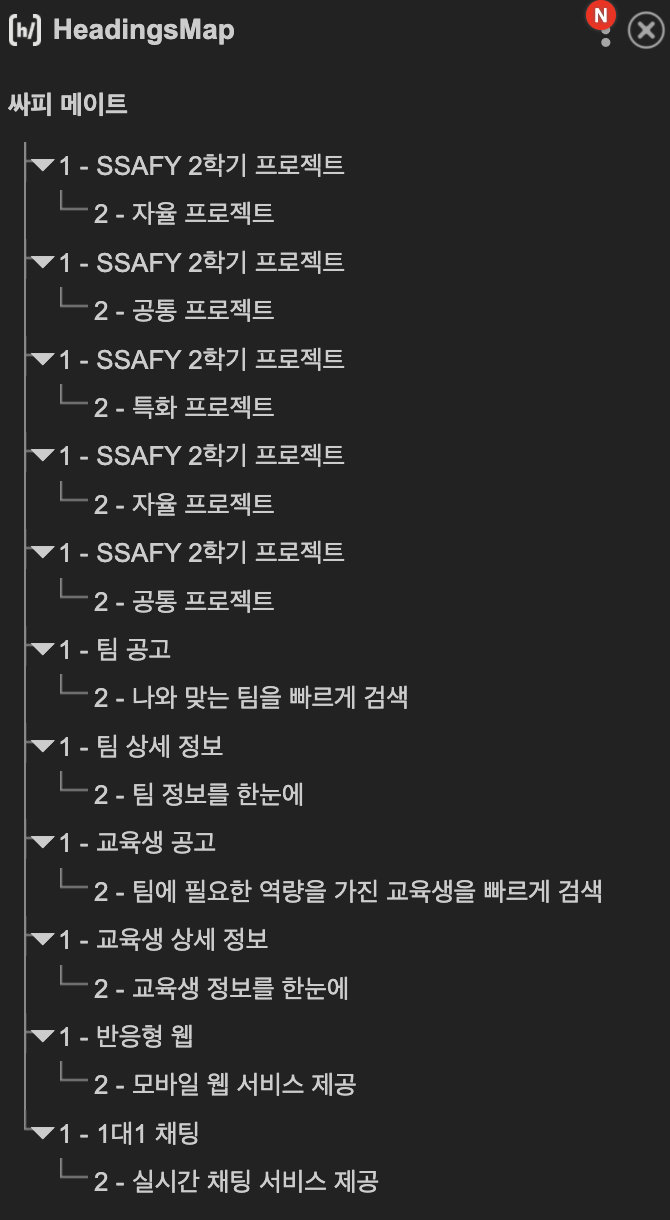
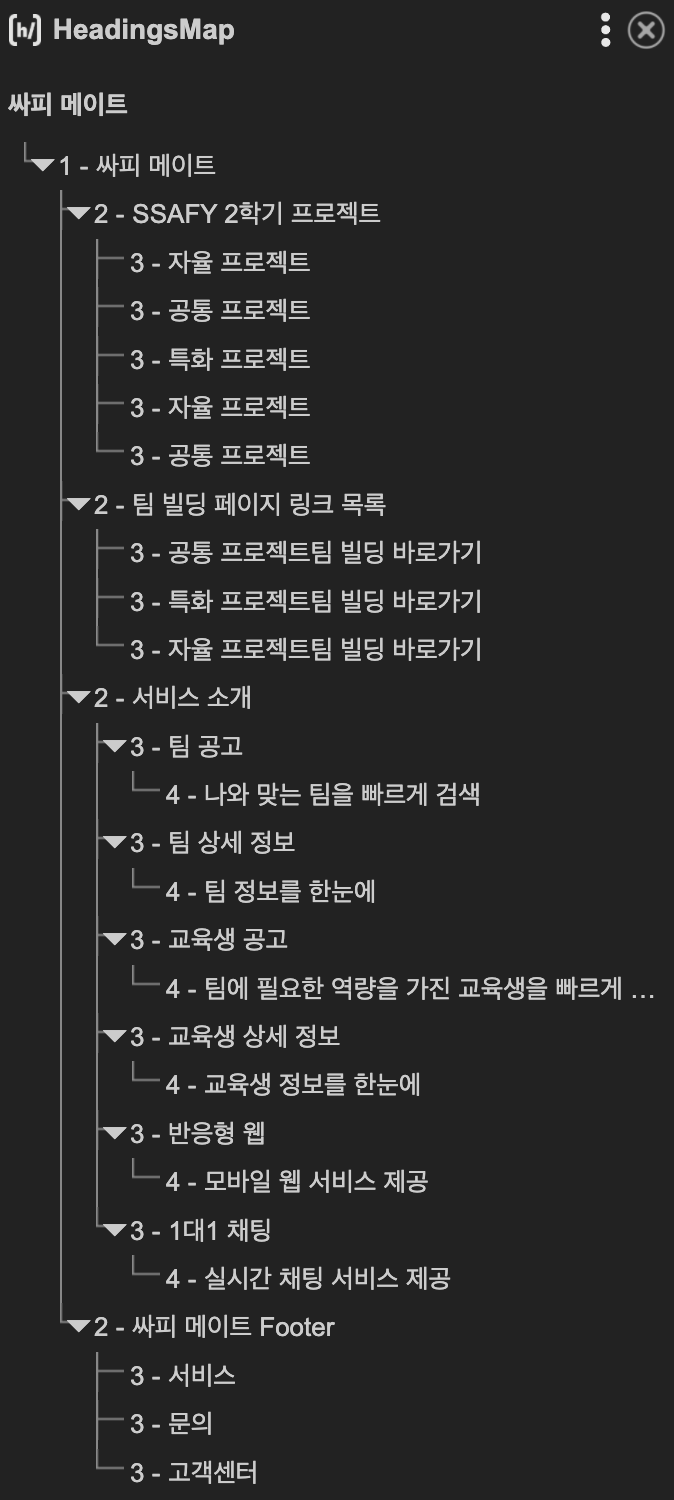
Refactor : 페이지 헤딩 처리 개편

diff --git a/src/components/projects/UserRecruitmentSection.tsx b/src/components/projects/UserRecruitmentSection.tsx
@@ -6,10 +6,11 @@ import Switch from '@mui/material/Switch';
 
 import { UserListResponse } from '../../types/userTypes';
 
+import SkeletonUserRecruitmentSection from './skeletonUI/SkeletonUserRecruitmentSection';
+import VisuallyHiddenHead from '../common/VisuallyHiddenHead';
 import UserItem from '../projects/UserItem';
 import EmptyBox from './EmptyBox';
 import ErrorSection from '../common/ErrorSection';
-import SkeletonUserRecruitmentSection from './skeletonUI/SkeletonUserRecruitmentSection';
 
 interface UserRecruitmentSectionProps {
   isLoading: boolean;
@@ -52,6 +53,7 @@ const UserRecruitmentSection: React.FC<UserRecruitmentSectionProps> = ({
         <SkeletonUserRecruitmentSection />
       ) : (
         <Container>
+          <VisuallyHiddenHead level={2} text="교육생 목록" />
           <RecruitmentHeader>
             <HeaderLeft>
               <TotalCount>검색된 교육생 총 {data.totalElement}명</TotalCount>
@@ -114,7 +116,7 @@ const HeaderLeft = styled.div``;
 
 const HeaderRight = styled.div``;
 
-const TotalCount = styled.h1`
+const TotalCount = styled.p`
   margin: auto 0;
   font-size: 14px;
   font-weight: 600;

diff --git a/src/components/projects/TeamRecruitmentSection.tsx b/src/components/projects/TeamRecruitmentSection.tsx
@@ -8,9 +8,10 @@ import Switch from '@mui/material/Switch';
 
 import { TeamListResponse } from '../../types/teamTypes';
 
+import SkeletonTeamRecruitmentSection from './skeletonUI/SkeletonTeamRecruitmentSection';
+import VisuallyHiddenHead from '../common/VisuallyHiddenHead';
 import TeamItem from './TeamItem';
 import EmptyBox from './EmptyBox';
-import SkeletonTeamRecruitmentSection from './skeletonUI/SkeletonTeamRecruitmentSection';
 import ErrorSection from '../common/ErrorSection';
 
 interface TeamRecruitmentSectionProps {
@@ -60,6 +61,7 @@ const TeamRecruitmentSection: React.FC<TeamRecruitmentSectionProps> = ({
         <SkeletonTeamRecruitmentSection />
       ) : (
         <Container>
+          <VisuallyHiddenHead level={2} text="팀 목록" />
           <RecruitmentHeader>
             <HeaderLeft>
               <TotalCount>검색된 팀 총 {data.totalElement}팀</TotalCount>
@@ -127,7 +129,7 @@ const HeaderLeft = styled.div``;
 
 const HeaderRight = styled.div``;
 
-const TotalCount = styled.h1`
+const TotalCount = styled.p`
   margin: auto 0;
   font-size: 14px;
   font-weight: 600;

diff --git a/src/pages/projects/SpecializationProjectUserListPage.tsx b/src/pages/projects/SpecializationProjectUserListPage.tsx
@@ -14,6 +14,7 @@ import useDocumentTitle from '../../hooks/useDocumentTitle';
 
 import Header from '../../components/common/Header';
 import ProjectNavigation from '../../components/projects/ProjectNavigation';
+import VisuallyHiddenHead from '../../components/common/VisuallyHiddenHead';
 import ProjectBannerSection from '../../components/projects/ProjectBannerSection';
 import UserListSearchForm from '../../components/projects/UserListSearchForm';
 import UserRecruitmentSection from '../../components/projects/UserRecruitmentSection';
@@ -72,6 +73,7 @@ const SpecializationProjectUserListPage: React.FC = () => {
     <>
       <Header />
       <ProjectNavigation />
+      <VisuallyHiddenHead level={1} text="특화 프로젝트 교육생 공고" />
       <ProjectBannerSection />
       <UserListSearchForm
         campus={campus}

diff --git a/src/pages/projects/SpecializationProjectTeamListPage.tsx b/src/pages/projects/SpecializationProjectTeamListPage.tsx
@@ -14,6 +14,7 @@ import useDocumentTitle from '../../hooks/useDocumentTitle';
 
 import Header from '../../components/common/Header';
 import ProjectNavigation from '../../components/projects/ProjectNavigation';
+import VisuallyHiddenHead from '../../components/common/VisuallyHiddenHead';
 import ProjectBannerSection from '../../components/projects/ProjectBannerSection';
 import TeamListSearchForm from '../../components/projects/TeamListSearchForm';
 import TeamRecruitmentSection from '../../components/projects/TeamRecruitmentSection';
@@ -70,6 +71,7 @@ const SpecializationProjectTeamListPage: React.FC = () => {
     <>
       <Header />
       <ProjectNavigation />
+      <VisuallyHiddenHead level={1} text="특화 프로젝트 팀 공고" />
       <ProjectBannerSection />
       <TeamListSearchForm
         campus={campus}

diff --git a/src/components/common/Footer.tsx b/src/components/common/Footer.tsx
@@ -9,8 +9,6 @@ import YouTubeIcon from '@mui/icons-material/YouTube';
 import FacebookIcon from '@mui/icons-material/Facebook';
 import InstagramIcon from '@mui/icons-material/Instagram';
 
-import VisuallyHiddenHead from './VisuallyHiddenHead';
-
 interface FooterProps {
   offMarginTop?: boolean;
 }
@@ -20,7 +18,6 @@ interface ContainerProps extends FooterProps {}
 const Footer: React.FC<FooterProps> = ({ offMarginTop }) => {
   return (
     <Container offMarginTop={offMarginTop}>
-      <VisuallyHiddenHead level={2} text="싸피 메이트 Footer" />
       <Wrapper>
         <MenuSection>
           <MenuGroup>
@@ -192,7 +189,7 @@ const MenuList = styled.ul`
   }
 `;
 
-const MenuListHead = styled.h3`
+const MenuListHead = styled.p`
   margin-bottom: 16px;
   font-size: 14px;
   font-weight: 600;

diff --git a/src/components/projects/ProjectBannerSection.tsx b/src/components/projects/ProjectBannerSection.tsx
@@ -14,6 +14,7 @@ import 'swiper/css/pagination';
 
 import { ProjectBannerSlideType } from '../../types/commonTypes';
 
+import VisuallyHiddenHead from '../common/VisuallyHiddenHead';
 import ProjectBannerCard from './ProjectBannerCard';
 
 const PROJECTS_BANNER_SLIDE_LIST: ProjectBannerSlideType[] = [
@@ -86,6 +87,7 @@ const ProjectBannerSection: React.FC = () => {
   return (
     <Container>
       <Wrapper>
+        <VisuallyHiddenHead level={2} text="특화 프로젝트 트랙 목록" />
         <BannerSwiper
           cssMode={true}
           navigation={true}

diff --git a/src/components/projects/TeamItem.tsx b/src/components/projects/TeamItem.tsx
@@ -151,7 +151,7 @@ const ItemBody = styled.div`
   box-sizing: border-box;
 `;
 
-const Notice = styled.h2`
+const Notice = styled.h3`
   width: 100%;
   margin-bottom: 6px;
   font-size: 18px;
@@ -177,7 +177,7 @@ const SubInfoList = styled.div`
   margin-bottom: 6px;
 `;
 
-const InfoName = styled.h3`
+const InfoName = styled.h4`
   display: flex;
   font-size: 14px;
   color: #98a8b9;

diff --git a/src/pages/projects/SpecializationProjectSendRequestListPage.tsx b/src/pages/projects/SpecializationProjectSendRequestListPage.tsx
@@ -16,7 +16,7 @@ const SpecializationProjectSendRequestListPage: React.FC = () => {
     query: '(max-width: 575px)',
   });
 
-  useDocumentTitle('특화 프로젝트 받은 제안 | 싸피 메이트');
+  useDocumentTitle('특화 프로젝트 보낸 요청 | 싸피 메이트');
 
   if (token === null) {
     return <Redirect to="/users/sign_in" />;

diff --git a/src/components/projects/ProjectBannerCard.tsx b/src/components/projects/ProjectBannerCard.tsx
@@ -63,7 +63,7 @@ const InfoWrapper = styled.div`
   }
 `;
 
-const Head = styled.h1`
+const Head = styled.p`
   margin-bottom: 8px;
   font-size: 15px;
   line-height: 1.5;
@@ -82,7 +82,7 @@ const Head = styled.h1`
   }
 `;
 
-const SubHead = styled.h2`
+const SubHead = styled.h3`
   margin-bottom: 32px;
   font-size: 30px;
   font-weight: 500;

diff --git a/src/components/projects/UserItem.tsx b/src/components/projects/UserItem.tsx
@@ -365,7 +365,7 @@ const MainInfoList = styled.div`
   }
 `;
 
-const UserName = styled.h2`
+const UserName = styled.h3`
   & .user-label {
     font-size: 16px;
     font-weight: 500;
